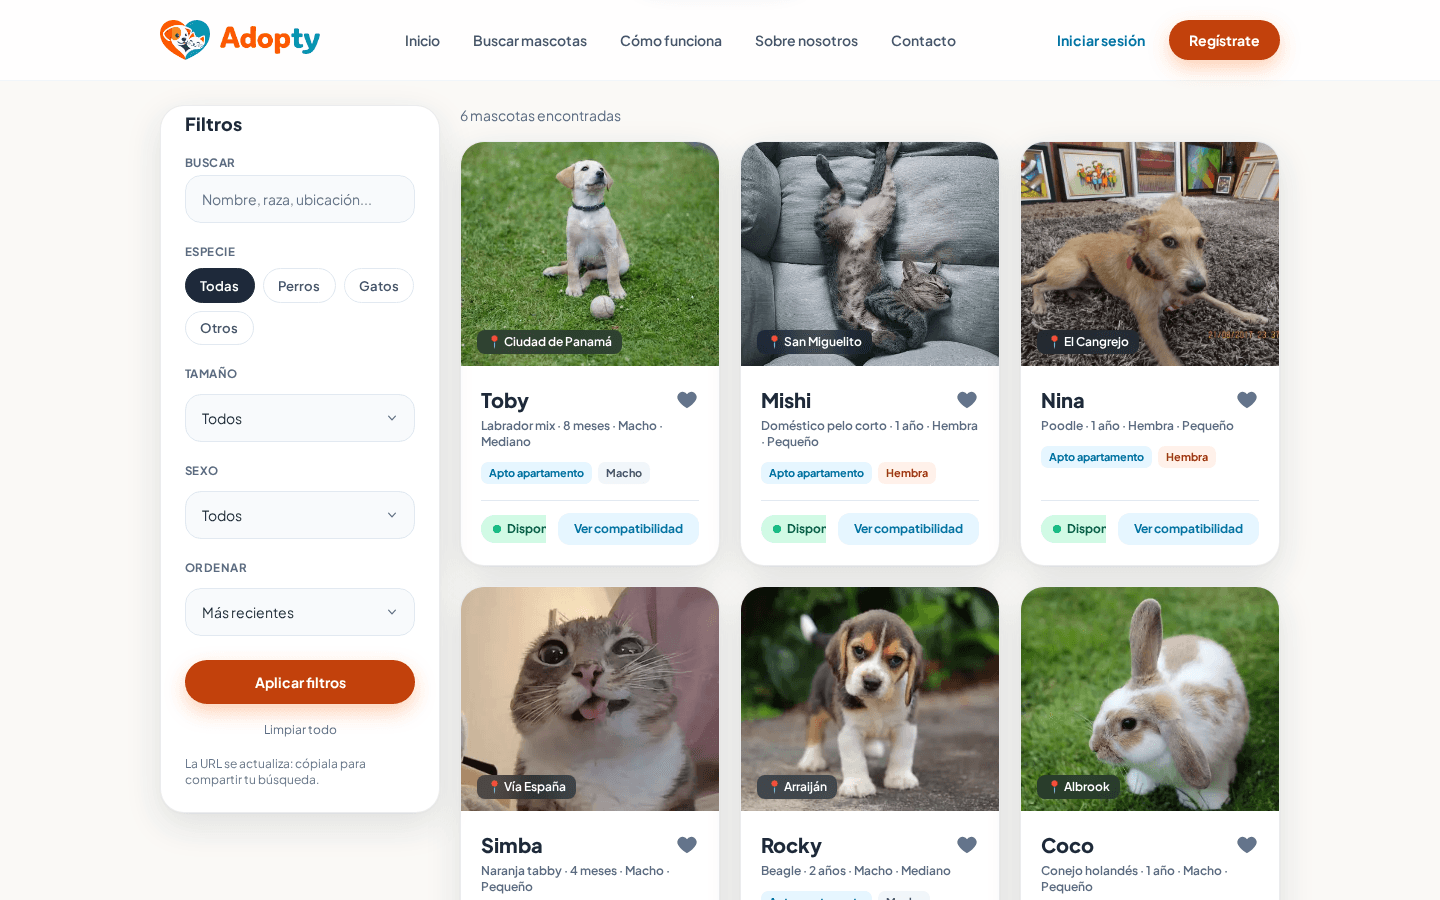
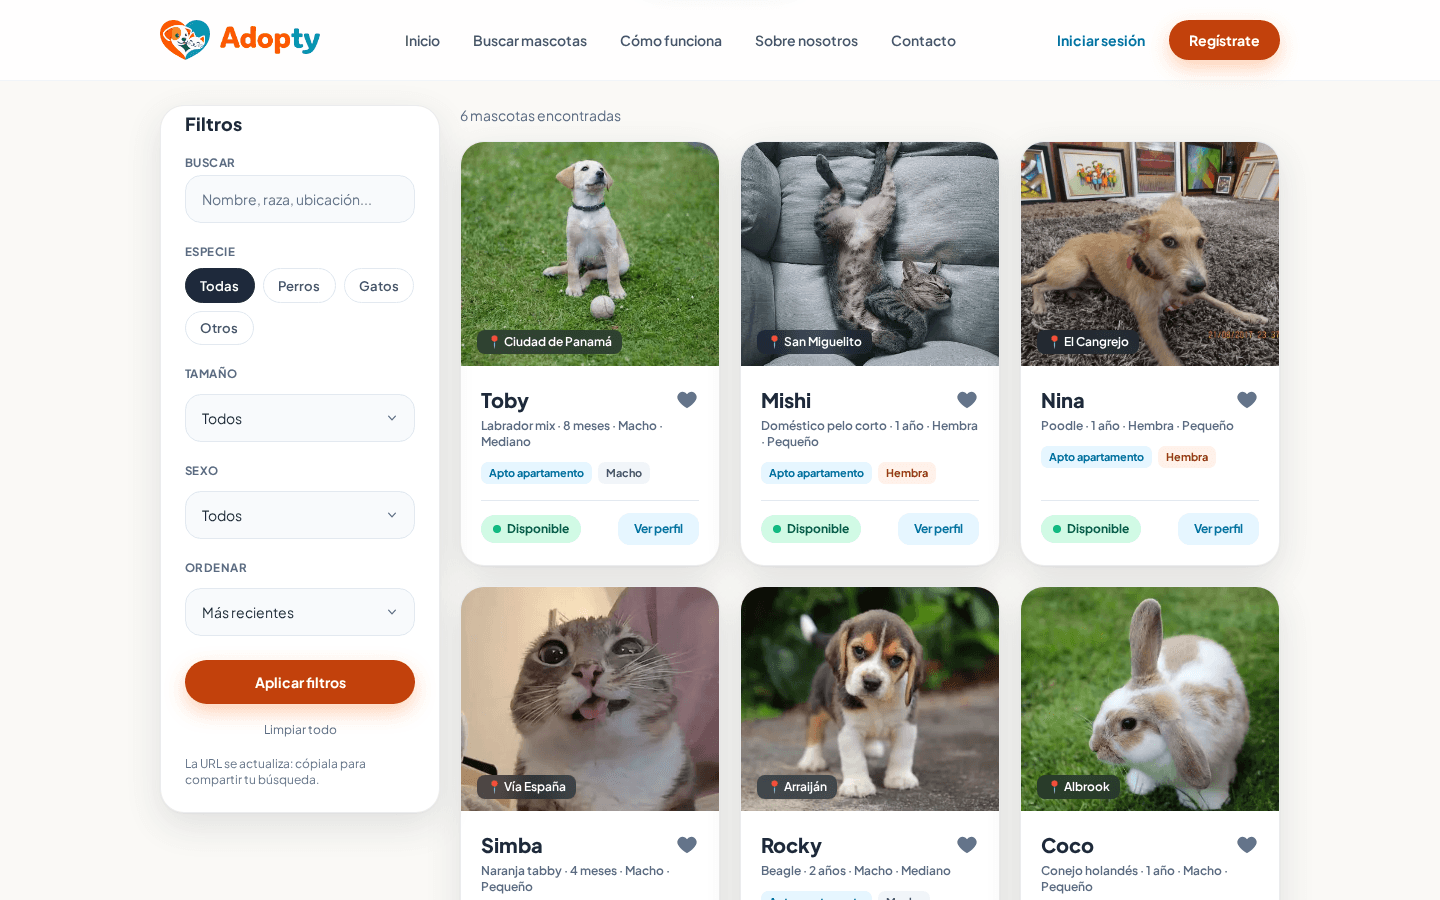
fix(ui): el badge de estado ya no se corta en la tarjeta
La fila inferior de PetCard mide ~218 px en la rejilla de 3 columnas. El badge
(~100 px) y el CTA "Ver compatibilidad" (~141 px) no cabían, así que el span
con truncate encogía el badge y se leía "Dispon".

- El CTA pasa a "Ver perfil" y el badge ya no se deja encoger.
- Solo el nombre del publicador puede truncarse, que sí puede ser largo.
- Captura de explorar regenerada con el arreglo.

Incluye también el GIF de demo (docs/screenshots/demo.gif) y el script que lo
regenera (scripts/grabar-demo.mjs). El puntero se dibuja como una flecha real,
con movimiento acelerado y posición persistida entre navegaciones, para que no
salte al centro al pulsar un enlace.

Verificación: 1440/1280/1024/390 px sin recorte; format, lint, check, 166 tests
y build en verde.

Changed region(s): [[0.75, 0.56, 0.875, 0.6222], [0.5625, 0.56, 0.6562, 0.6222], [0.375, 0.56, 0.4688, 0.6222]]

diff --git a/README.md b/README.md
@@ -13,6 +13,8 @@ mensajería en un solo lugar, sin exponer el número personal de nadie.
 
 ![Búsqueda de mascotas en Adopty](docs/screenshots/explorar.png)
 
+![Recorrido: portada, explorar, filtro por especie y ficha de la mascota](docs/screenshots/demo.gif)
+
 ## Estado del proyecto
 
 |                    |                                                                                   |
@@ -51,6 +53,7 @@ mensajería en un solo lugar, sin exponer el número personal de nadie.
 8. Entra como organización para ver la gestión de mascotas o como admin en `/admin`.
 
 El guion completo de sustentación está en [`docs/GUION_DEMO.md`](docs/GUION_DEMO.md).
+El GIF del README se regenera con `node scripts/grabar-demo.mjs` contra el servidor local.
 
 ## Cómo probarlo
 
